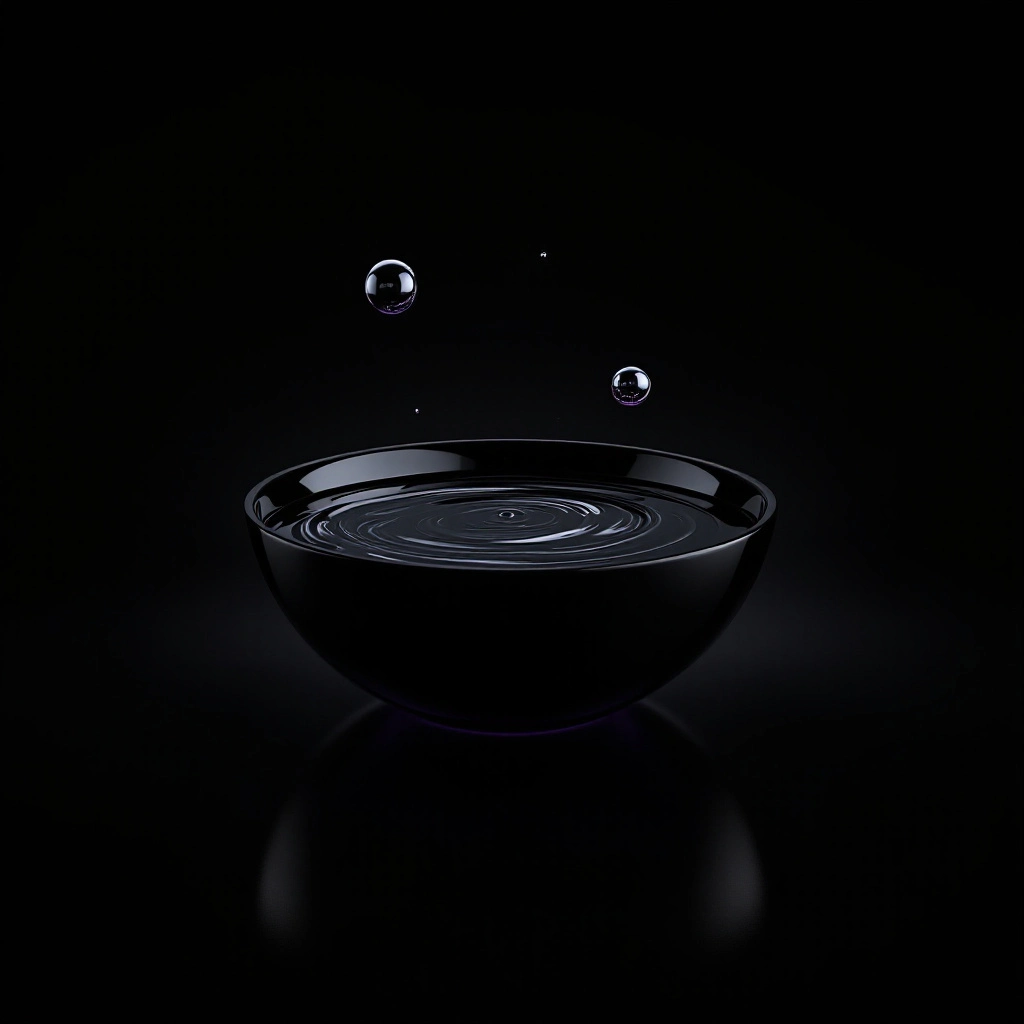
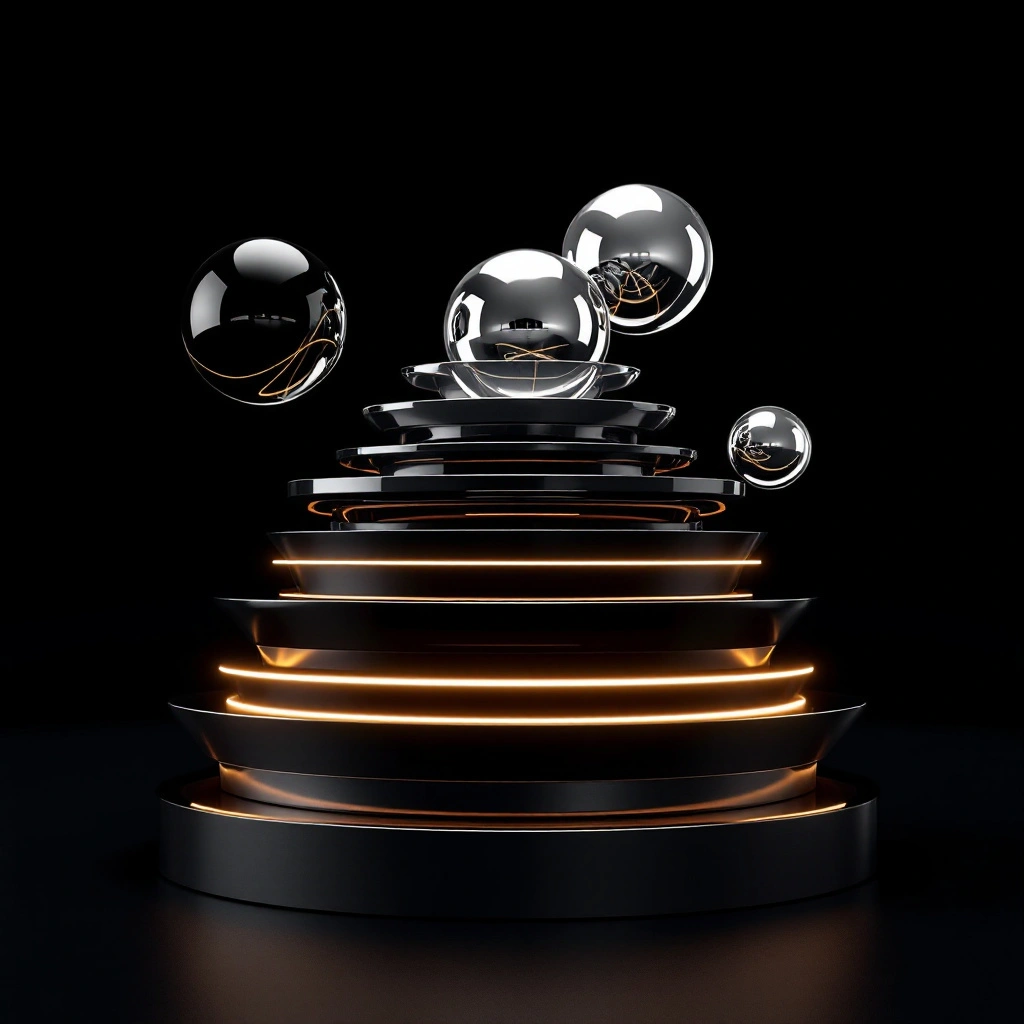
Orchestra V2 cinematic environment overhaul + new ribbon object
- Replaced flat radial glow with multi-layer atmospheric environment:
  studio depth gradient, breathing primary bloom, secondary diffuse,
  key light suggestion, atmospheric ground fog
- New hero-object.webp: stacked terraced ribbon bands + 3 chrome spheres
  (correct Synthera geometry, pure black bg for seamless screen compositing)
- CSS filter saturate(0.18) kills amber glow, preserves chrome luster
- Object: 78vw/980px (up from 68vw/860px), right:0% top:46% (more dominant)
- Added micro-rotation wrapper rotateZ:±0.35° over 22s (invisible, cinematic)
- Float slowed to 13s period, 7px amplitude (premium inertia)
- Spring stiffness:35 damping:22 (heavy weighted parallax)
- Multi-layer glow system: wide bloom (blur:55px) + tight bloom (blur:22px)
- Reflective floor plane + contact shadow for physical grounding
- OrbitalSphere → HoverSphere: fixed positions, independent float periods
- Ecosystem nodes: +42% border opacity, +glow, +label saturation
- PetalPost image: fixed 404 ID → confirmed-working floral asset

Changed region(s): [[0.1562, 0.1562, 0.875, 1.0], [0.1875, 0.2188, 0.4062, 0.4062]]

diff --git a/app/v2/page.tsx b/app/v2/page.tsx
@@ -100,7 +100,7 @@ const WORLDS: WorldCard[] = [
     name: "PetalPost",
     tagline: "Luxury florals, delivered",
     accent: "#6b9080",
-    image: "1490759847868-88d4476a2101",
+    image: "1558618666-fcd25c85cd64",
     bg: "#faf9f7",
     fg: "#1c1917",
     mesh: "rgba(107,144,128,0.1)",
@@ -567,34 +567,31 @@ function Particles({ count = 28 }: { count?: number }) {
 
 // ─── Orbital chrome sphere — premium object companion ────────────────────────
 
-function OrbitalSphere({
-  orbitPx, spherePx, period, startDeg, isDark, reverse = false,
+function HoverSphere({
+  spherePx, left, top, period, initY = 0, isDark, graphite = false,
 }: {
-  orbitPx: number; spherePx: number; period: number;
-  startDeg: number; isDark: boolean; reverse?: boolean;
+  spherePx: number; left: string; top: string;
+  period: number; initY?: number; isDark: boolean; graphite?: boolean;
 }) {
+  const chrome = graphite
+    ? "radial-gradient(circle at 34% 30%, rgba(190,190,210,0.90) 0%, rgba(110,110,130,0.72) 30%, rgba(48,48,62,0.78) 60%, rgba(12,10,22,0.97) 100%)"
+    : "radial-gradient(circle at 32% 28%, rgba(255,255,255,0.97) 0%, rgba(210,210,232,0.78) 28%, rgba(140,128,185,0.55) 58%, rgba(18,14,38,0.96) 100%)";
   return (
     <motion.div
-      style={{ position: "absolute", left: "50%", top: "42%", width: 0, height: 0, transformOrigin: "0 0" }}
-      initial={{ rotate: startDeg }}
-      animate={{ rotate: reverse ? startDeg - 360 : startDeg + 360 }}
-      transition={{ duration: period, repeat: Infinity, ease: "linear" }}
-    >
-      <div
-        style={{
-          position: "absolute",
-          width: spherePx,
-          height: spherePx,
-          left: -spherePx / 2,
-          top: -orbitPx,
-          borderRadius: "50%",
-          background: "radial-gradient(circle at 32% 28%, rgba(255,255,255,0.97) 0%, rgba(210,210,232,0.78) 28%, rgba(140,128,185,0.55) 58%, rgba(18,14,38,0.96) 100%)",
-          boxShadow: isDark
-            ? `0 0 ${spherePx * 2.2}px rgba(120,80,220,0.17), 0 ${spherePx * 0.6}px ${spherePx * 1.4}px rgba(0,0,0,0.60)`
-            : `0 0 ${spherePx * 2.2}px rgba(80,160,240,0.13), 0 ${spherePx * 0.6}px ${spherePx * 1.4}px rgba(0,0,0,0.20)`,
-        }}
-      />
-    </motion.div>
+      style={{
+        position: "absolute", left, top,
+        width: spherePx, height: spherePx,
+        transform: "translate(-50%, -50%)",
+        borderRadius: "50%",
+        background: chrome,
+        boxShadow: isDark
+          ? `0 0 ${spherePx * 2.2}px rgba(100,70,200,0.18), 0 ${spherePx * 0.55}px ${spherePx * 1.3}px rgba(0,0,0,0.68)`
+          : `0 0 ${spherePx * 2.2}px rgba(80,160,240,0.13), 0 ${spherePx * 0.55}px ${spherePx * 1.3}px rgba(0,0,0,0.22)`,
+        pointerEvents: "none",
+      }}
+      animate={{ y: [initY, initY - 8, initY] }}
+      transition={{ duration: period, repeat: Infinity, ease: "easeInOut" }}
+    />
   );
 }
 
@@ -1109,8 +1106,8 @@ function CinematicHero() {
   const heroRef = useRef<HTMLElement>(null);
   const mouseX  = useMotionValue(0);
   const mouseY  = useMotionValue(0);
-  const smoothX = useSpring(mouseX, { stiffness: 50, damping: 18 });
-  const smoothY = useSpring(mouseY, { stiffness: 50, damping: 18 });
+  const smoothX = useSpring(mouseX, { stiffness: 35, damping: 22 });
+  const smoothY = useSpring(mouseY, { stiffness: 35, damping: 22 });
 
   const { scrollYProgress } = useScroll({
     target: heroRef,
@@ -1131,10 +1128,7 @@ function CinematicHero() {
     visible: { opacity: 1, y: 0, transition: { duration: 1.1, ease: E.expo as any } },
   };
 
-  const heroBg = isDark ? "#08080f" : "#f0f4f9";
-  const glowBg = isDark
-    ? "radial-gradient(ellipse 75% 70% at 68% 50%, rgba(55,25,135,0.55) 0%, rgba(20,10,48,0.28) 48%, transparent 72%)"
-    : "radial-gradient(ellipse 75% 70% at 68% 50%, rgba(186,230,253,0.65) 0%, rgba(224,242,254,0.38) 48%, transparent 72%)";
+  const heroBg = isDark ? "#080c14" : "#f0f4f9";
 
   return (
     <motion.section
@@ -1147,66 +1141,144 @@ function CinematicHero() {
         mouseY.set((e.clientY - r.top)  / r.height - 0.5);
       }}
     >
-      {/* Background atmosphere */}
-      <div className="absolute inset-0" style={{ background: glowBg }} />
+      {/* ── Cinematic environment layers ──────────────────────────── */}
 
-      {/* Premium central object — right half */}
+      {/* Studio depth — not pure flat black, subtle center lift */}
+      {isDark && (
+        <div className="absolute inset-0 pointer-events-none" style={{
+          background: "radial-gradient(ellipse 110% 100% at 58% 44%, rgba(14,18,32,1) 0%, rgba(8,12,20,0.6) 55%, rgba(3,5,10,1) 100%)"
+        }} />
+      )}
+
+      {/* Primary volumetric bloom — breathes slowly */}
       <motion.div
         className="absolute pointer-events-none"
         style={{
-          right: "-4%",
-          top: "50%",
+          right: "-5%", top: "0%", bottom: "0%", width: "72%",
+          background: isDark
+            ? "radial-gradient(ellipse 80% 88% at 60% 46%, rgba(36,24,100,0.62) 0%, rgba(18,12,52,0.30) 36%, rgba(10,7,28,0.14) 60%, transparent 82%)"
+            : "radial-gradient(ellipse 80% 88% at 60% 46%, rgba(186,230,253,0.60) 0%, rgba(224,242,254,0.30) 50%, transparent 78%)",
+        }}
+        animate={{ opacity: [0.82, 1, 0.82] }}
+        transition={{ duration: 8, repeat: Infinity, ease: "easeInOut" }}
+      />
+
+      {/* Secondary wide atmospheric diffuse */}
+      <div className="absolute inset-0 pointer-events-none" style={{
+        background: isDark
+          ? "radial-gradient(ellipse 100% 85% at 55% 50%, rgba(22,14,72,0.28) 0%, rgba(12,8,36,0.12) 48%, transparent 72%)"
+          : "radial-gradient(ellipse 100% 85% at 55% 50%, rgba(147,210,255,0.22) 0%, transparent 68%)",
+      }} />
+
+      {/* Key light suggestion — subtle upper-right studio light */}
+      {isDark && (
+        <div className="absolute pointer-events-none" style={{
+          top: "-15%", right: "-8%", width: "55%", height: "65%",
+          background: "radial-gradient(ellipse 65% 60% at 88% 18%, rgba(200,215,255,0.035) 0%, rgba(160,180,240,0.018) 35%, transparent 68%)",
+        }} />
+      )}
+
+      {/* Atmospheric ground fog — horizontal haze at lower third */}
+      {isDark && (
+        <div className="absolute pointer-events-none" style={{
+          bottom: "0%", left: "28%", right: "0%", height: "38%",
+          background: "linear-gradient(to top, rgba(4,6,14,0.88) 0%, rgba(8,10,20,0.42) 32%, transparent 68%)",
+        }} />
+      )}
+
+      {/* ── Premium cinematic object ──────────────────────────────── */}
+      <motion.div
+        className="absolute pointer-events-none"
+        style={{
+          right: "0%",
+          top: "46%",
           translateY: "-50%",
-          width: "min(60vw, 780px)",
-          height: "min(60vw, 780px)",
+          width: "min(78vw, 980px)",
+          height: "min(78vw, 980px)",
           x: objMoveX,
           y: objMoveY,
           zIndex: 2,
         }}
       >
-        {/* Deep glow field behind object */}
+        {/* Wide primary bloom — breathes in sync with atmosphere */}
+        <motion.div
+          style={{
+            position: "absolute", inset: "-22%", borderRadius: "50%",
+            filter: "blur(55px)",
+            background: isDark
+              ? "radial-gradient(circle at 50% 48%, rgba(58,32,180,0.30) 0%, rgba(28,16,90,0.15) 42%, transparent 68%)"
+              : "radial-gradient(circle at 50% 48%, rgba(147,210,255,0.36) 0%, rgba(186,230,253,0.18) 45%, transparent 68%)",
+          }}
+          animate={{ opacity: [0.82, 1, 0.82], scale: [0.97, 1, 0.97] }}
+          transition={{ duration: 8, repeat: Infinity, ease: "easeInOut" }}
+        />
+
+        {/* Tight secondary bloom — hugs the object surface */}
         <div style={{
-          position: "absolute", inset: "-18%", borderRadius: "50%", filter: "blur(40px)",
+          position: "absolute", inset: "-6%", borderRadius: "50%",
+          filter: "blur(22px)",
           background: isDark
-            ? "radial-gradient(circle at 50% 50%, rgba(72,38,210,0.26) 0%, rgba(36,18,108,0.13) 45%, transparent 68%)"
-            : "radial-gradient(circle at 50% 50%, rgba(147,210,255,0.32) 0%, rgba(186,230,253,0.16) 45%, transparent 68%)",
+            ? "radial-gradient(circle at 52% 46%, rgba(70,44,200,0.20) 0%, rgba(38,22,110,0.09) 48%, transparent 70%)"
+            : "radial-gradient(circle at 52% 46%, rgba(147,210,255,0.24) 0%, transparent 65%)",
         }} />
 
-        {/* Generated cinematic object */}
+        {/* Micro-rotation wrapper — imperceptible, cinematic */}
         <motion.div
           style={{ position: "absolute", inset: 0 }}
-          initial={{ opacity: 0, scale: 0.88 }}
-          animate={{ opacity: 1, scale: 1 }}
-          transition={{ duration: 1.8, ease: E.expo as any, delay: 0.25 }}
+          animate={{ rotateZ: [0, 0.35, 0, -0.35, 0] }}
+          transition={{ duration: 22, repeat: Infinity, ease: "easeInOut" }}
         >
+          {/* Entrance animation */}
           <motion.div
             style={{ position: "absolute", inset: 0 }}
-            animate={{ y: [0, -16, 0] }}
-            transition={{ duration: 9, repeat: Infinity, ease: "easeInOut" }}
+            initial={{ opacity: 0, scale: 0.86 }}
+            animate={{ opacity: 1, scale: 1 }}
+            transition={{ duration: 2.0, ease: E.expo as any, delay: 0.2 }}
           >
-            <Image
-              src="/hero-object.webp"
-              alt="Synthera — cinematic world object"
-              fill
-              className="object-contain"
-              priority
-              style={{ opacity: isDark ? 1 : 0.82 }}
-            />
+            {/* Cinematic float */}
+            <motion.div
+              style={{ position: "absolute", inset: 0 }}
+              animate={{ y: [0, -7, 0] }}
+              transition={{ duration: 13, repeat: Infinity, ease: "easeInOut" }}
+            >
+              <Image
+                src="/hero-object.webp"
+                alt="Synthera — cinematic world object"
+                fill
+                sizes="(max-width: 768px) 100vw, 78vw"
+                className="object-contain"
+                priority
+                style={{
+                  opacity: isDark ? 1 : 0.82,
+                  mixBlendMode: isDark ? "screen" : "multiply",
+                  filter: isDark ? "saturate(0.18) contrast(1.06)" : "saturate(0.5) brightness(1.08)",
+                }}
+              />
+            </motion.div>
           </motion.div>
         </motion.div>
 
-        {/* Orbital chrome spheres */}
-        <OrbitalSphere orbitPx={290} spherePx={22} period={10}  startDeg={0}   isDark={isDark} />
-        <OrbitalSphere orbitPx={340} spherePx={14} period={15}  startDeg={140} isDark={isDark} reverse />
-        <OrbitalSphere orbitPx={250} spherePx={18} period={7.5} startDeg={260} isDark={isDark} />
+        {/* Chrome spheres — fixed positions above ribbon stack, independent float */}
+        <HoverSphere spherePx={26} left="36%" top="23%" period={9}    initY={0}  isDark={isDark} graphite />
+        <HoverSphere spherePx={18} left="53%" top="16%" period={12.5} initY={-3} isDark={isDark} />
+        <HoverSphere spherePx={14} left="66%" top="27%" period={7}    initY={-5} isDark={isDark} />
 
-        {/* Ground reflection */}
+        {/* Reflective floor plane — suggests physical ground */}
         <div style={{
-          position: "absolute", bottom: "4%", left: "18%", right: "18%",
-          height: 50, filter: "blur(14px)",
+          position: "absolute", bottom: "-4%", left: "12%", right: "12%",
+          height: "18%", filter: "blur(18px)",
           background: isDark
-            ? "radial-gradient(ellipse at 50% 100%, rgba(72,38,210,0.18) 0%, transparent 70%)"
-            : "radial-gradient(ellipse at 50% 100%, rgba(147,210,255,0.20) 0%, transparent 70%)",
+            ? "radial-gradient(ellipse 90% 100% at 50% 0%, rgba(50,32,160,0.22) 0%, rgba(24,14,72,0.10) 50%, transparent 78%)"
+            : "radial-gradient(ellipse 90% 100% at 50% 0%, rgba(147,210,255,0.20) 0%, transparent 70%)",
+        }} />
+
+        {/* Contact shadow — tight glow at object base */}
+        <div style={{
+          position: "absolute", bottom: "8%", left: "26%", right: "26%",
+          height: 28, filter: "blur(10px)",
+          background: isDark
+            ? "radial-gradient(ellipse at 50% 100%, rgba(70,44,200,0.30) 0%, transparent 75%)"
+            : "radial-gradient(ellipse at 50% 100%, rgba(147,210,255,0.28) 0%, transparent 70%)",
         }} />
       </motion.div>
 
@@ -1216,7 +1288,7 @@ function CinematicHero() {
         style={{
           zIndex: 3,
           background: isDark
-            ? "linear-gradient(to right, rgba(8,8,15,1) 0%, rgba(8,8,15,0.88) 30%, rgba(8,8,15,0.38) 54%, transparent 74%)"
+            ? "linear-gradient(to right, rgba(8,12,20,1) 0%, rgba(8,12,20,0.88) 30%, rgba(8,12,20,0.38) 54%, transparent 74%)"
             : `linear-gradient(to right, ${T.bg} 0%, ${T.bg}e8 28%, ${T.bg}55 52%, transparent 72%)`,
         }}
         aria-hidden
@@ -1227,7 +1299,7 @@ function CinematicHero() {
         style={{
           zIndex: 3,
           background: isDark
-            ? "linear-gradient(to top, rgba(8,8,15,0.55) 0%, rgba(8,8,15,0.08) 24%, transparent 40%)"
+            ? "linear-gradient(to top, rgba(8,12,20,0.55) 0%, rgba(8,12,20,0.08) 24%, transparent 40%)"
             : `linear-gradient(to top, ${T.bg}80 0%, transparent 28%)`,
         }}
         aria-hidden
@@ -1395,7 +1467,7 @@ function VariantCard({
           animate={{ y: [0, -8, 0] }}
           transition={{ duration: 7, repeat: Infinity, ease: "easeInOut" }}
         >
-          <Image src={variant.objectSrc} fill className="object-contain" alt={variant.name} />
+          <Image src={variant.objectSrc} fill sizes="280px" className="object-contain" alt={variant.name} style={{ filter: "saturate(0.2) contrast(1.05)" }} />
         </motion.div>
       ) : (
         <motion.div
@@ -1754,13 +1826,13 @@ function EcosystemNode({
           width:  active ? 52 : 44,
           height: active ? 52 : 44,
           background: isDark
-            ? `radial-gradient(circle at 40% 40%, ${color}42 0%, ${color}14 60%, transparent)`
+            ? `radial-gradient(circle at 40% 40%, ${color}55 0%, ${color}22 60%, transparent)`
             : `rgba(255,255,255,0.72)`,
-          border: `1.5px solid ${color}${active ? (isDark ? "88" : "70") : (isDark ? "40" : "55")}`,
+          border: `1.5px solid ${color}${active ? (isDark ? "aa" : "88") : (isDark ? "62" : "66")}`,
           boxShadow: active
-            ? `0 0 24px ${color}55, 0 0 8px ${color}28`
+            ? `0 0 24px ${color}66, 0 0 8px ${color}38`
             : isDark
-              ? `0 0 6px ${color}20`
+              ? `0 0 12px ${color}32, 0 0 4px ${color}16`
               : `0 0 10px ${color}28, inset 0 0 8px ${color}10`,
           backdropFilter: isDark ? "none" : "blur(4px)",
         }}
@@ -1778,8 +1850,8 @@ function EcosystemNode({
       <span
         className="text-[8px] font-semibold uppercase tracking-wide whitespace-nowrap"
         style={{
-          color: active ? color : (isDark ? T.muted : color),
-          opacity: active ? 1 : (isDark ? 0.6 : 0.88),
+          color: active ? color : (isDark ? color : color),
+          opacity: active ? 1 : (isDark ? 0.72 : 0.88),
         }}
       >
         {tool.name}